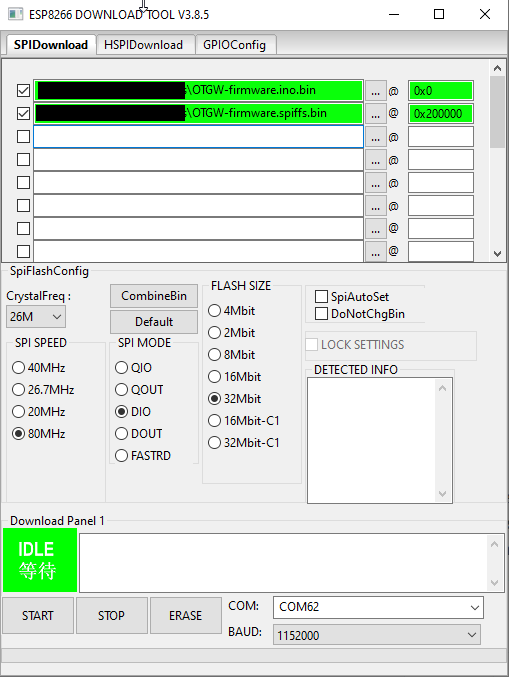
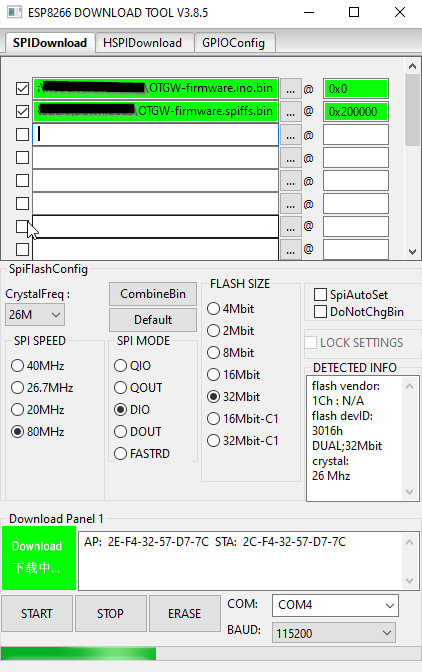
update docs

Changed region(s): [[0.0, 0.0, 1.0, 1.0]]

diff --git a/version.h b/version.h
@@ -2,13 +2,13 @@
 #define _VERSION_MAJOR 0
 #define _VERSION_MINOR 6  
 #define _VERSION_PATCH 0
-#define _VERSION_BUILD 408
+#define _VERSION_BUILD 409
 //#define _VERSION_PRERELEASE beta  //uncomment to define prerelease labels: alpha - beta - rc
-#define _VERSION_DATE "11-01-2021"
-#define _VERSION_TIME "21:20:33"
+#define _VERSION_DATE "12-01-2021"
+#define _VERSION_TIME "19:25:49"
 #define _SEMVER_CORE "0.6.0"
-#define _SEMVER_BUILD "0.6.0+408"
-#define _SEMVER_FULL "0.6.0+408"
-#define _SEMVER_NOBUILD "0.6.0 (11-01-2021)"
-#define _VERSION "0.6.0[phone redacted])"
+#define _SEMVER_BUILD "0.6.0+409"
+#define _SEMVER_FULL "0.6.0+409"
+#define _SEMVER_NOBUILD "0.6.0 (12-01-2021)"
+#define _VERSION "0.6.0[phone redacted])"
 //The version information is created automatically, more information here: https://github.com/rvdbreemen/autoinc-semver